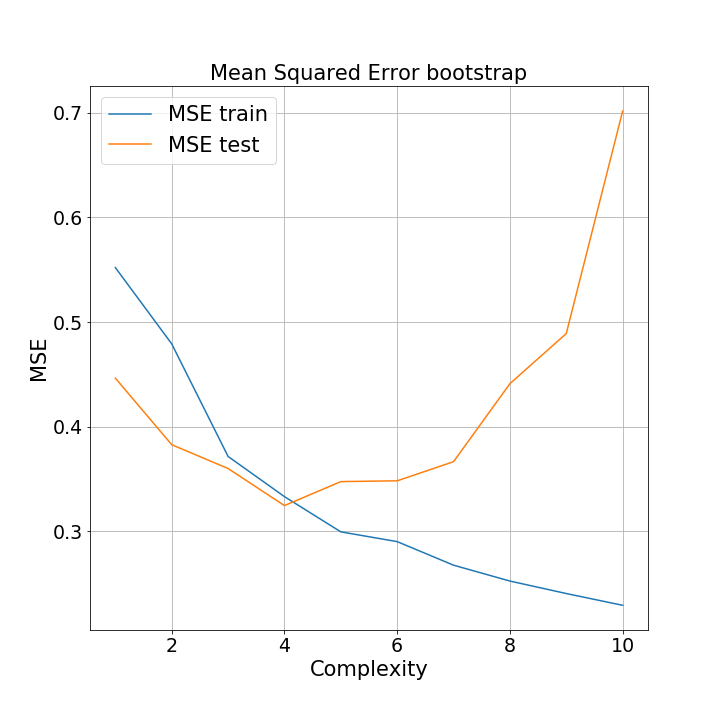
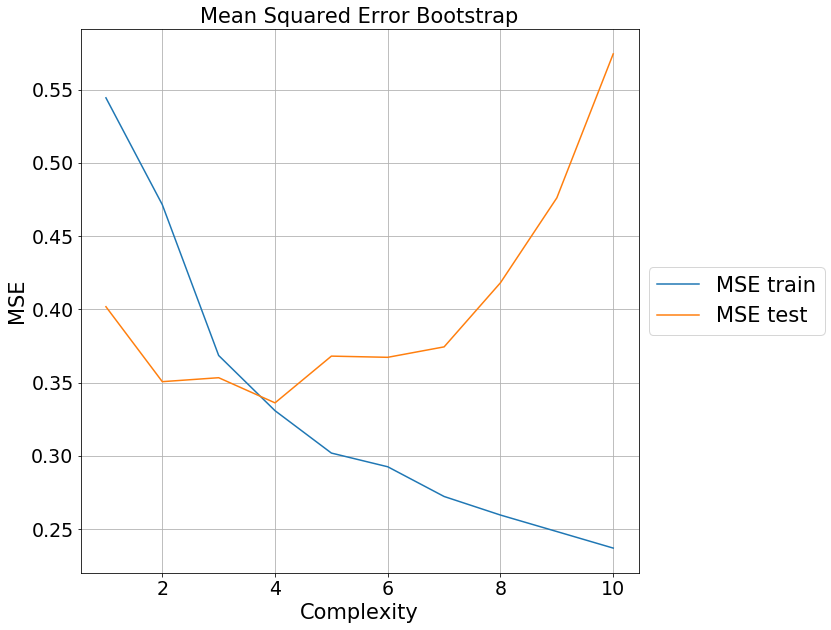
small changes in all files

diff --git a/Project1/ex6.py b/Project1/ex6.py
@@ -11,7 +11,7 @@ from functions import *
 np.random.seed(2405)
 
 terrain1 = imread('SRTM_data_Norway_1.tif')
-terrain1 = terrain1[0:200, 0:200]
+terrain1 = terrain1[:200, :200]
 x, y = np.meshgrid(range(terrain1.shape[1]), range(terrain1.shape[0]))
 max_y = np.max(y)
 x = x / max_y
@@ -25,10 +25,10 @@ tts = train_test_split(X, z_terrain, test_size = 0.01)
 print(f"OLS terrain: {evaluate_method(ols, tts, scale = True, d = complexity)}")
 
 
-print(x.shape)
-print(y.shape)
-print(terrain1)
-print(terrain1.shape)
+#print(x.shape)
+#print(y.shape)
+#print(terrain1)
+#print(terrain1.shape)
 
 
 
@@ -45,6 +45,7 @@ plt.show()
 
 fig, ax = plt.subplots(subplot_kw={"projection": "3d"})
 ax.plot_surface(x*max_y, y*max_y, terrain1)
+
 plt.show()
 
 """
@@ -64,8 +65,8 @@ plt.show()
 """
 #Ridge
 compl = [15,17,19,21,23,25]
-nlambda = 20s
-lambda_values = np.logspace(-9,-7,nlambda)
+nlambda = 10
+lambda_values = np.logspace(-9,-7.5,nlambda)
 mse_test_ridge = np.zeros((len(compl), len(lambda_values)))
 mse_train_ridge = np.zeros((len(compl), len(lambda_values)))
 r2_test_ridge = np.zeros((len(compl), len(lambda_values)))
@@ -75,14 +76,13 @@ for j in range(n_bs): #looping through bootstrap samples
     X_sample, z_sample = bootstrap(tts[0],tts[2])
     tts2 = [X_sample, tts[1], z_sample, tts[3]]
     for i in range(complex): #looping through complexity of model
-"""
 for i in range(len(compl)):
     for j in range(len(lambda_values)):
         mse_train_ridge[i,j], r2_train_ridge[i,j], mse_test_ridge[i,j], r2_test_ridge[i,j] = evaluate_method(ridge,
         tts, lmb = lambda_values[j], d=compl[i], scale = True)
+"""
 
-
-plot_mse(mse_train_ridge, mse_test_ridge, method_header = "ridge_terrain", lambdas = lambda_values, plot_complexity = True, complexities = compl)
+#plot_mse(mse_train_ridge, mse_test_ridge, method_header = "Ridge_Terrain", lambdas = lambda_values, plot_complexity = True, complexities = compl)
 """
 fig, ax = plt.subplots(subplot_kw={"projection": "3d"})
 _,_,_,_,beta_terrain = evaluate_method(ridge, tts, scale = True, d = complexity, lmb = lambda_values[] return_beta = True)
@@ -97,8 +97,25 @@ plt.xlabel('X')
 plt.ylabel('Y')
 plt.show()
 """
-"""
+
 #Lasso
+lambda_values = np.logspace(-6,-2,50)
+mse_test_lasso = np.zeros((len(compl), len(lambda_values)))
+mse_train_lasso = np.zeros((len(compl), len(lambda_values)))
+r2_test_lasso = np.zeros((len(compl), len(lambda_values)))
+r2_train_lasso = np.zeros((len(compl), len(lambda_values)))
+
+for i in range(len(compl)):
+    for j in range(len(lambda_values)):
+        mse_train_lasso[i,j], r2_train_lasso[i,j], mse_test_lasso[i,j], r2_test_lasso[i,j] = evaluate_method(lasso,
+        tts, lmb = lambda_values[j], d=compl[i], scale = False)
+
+
+plot_mse(mse_train_lasso, mse_test_lasso, method_header = 'Lasso_Terrain',
+    plot_complexity = True, lambdas = lambda_values, complexities = compl)
+
+
+"""
 fig, ax = plt.subplots(subplot_kw={"projection": "3d"})
 a,b,c,d,beta_terrain = evaluate_method(lasso, train_test_terrain, scale = True, d = complexity, return_beta = True)
 z_terrain = predict(X, beta_terrain).reshape(200,200)

diff --git a/Project1/ex2.py b/Project1/ex2.py
@@ -40,7 +40,7 @@ mean_mse_test = np.mean(mse_test, axis = 1)
 mean_r2_train = np.mean(r2_train, axis = 1)
 mean_r2_test = np.mean(r2_test, axis = 1)
 
-plot_mse(mean_mse_train, mean_mse_test, method_header = "bootstrap")
+plot_mse(mean_mse_train, mean_mse_test, method_header = "Bootstrap")
 
 
 #Bootstrap and plot MSE vs # datapoints
@@ -69,4 +69,4 @@ mean_mse_test_n = np.mean(mse_test_n, axis = 1)
 mean_r2_train_n = np.mean(r2_train_n, axis = 1)
 mean_r2_test_n = np.mean(r2_test_n, axis = 1)
 
-plot_mse(mean_mse_train_n, mean_mse_test_n, method_header = "bootstrap", plot_complexity = False, complexities = n_points)
+plot_mse(mean_mse_train_n, mean_mse_test_n, method_header = "Bootstrap", plot_complexity = False, complexities = n_points)

diff --git a/Project1/ex5.py b/Project1/ex5.py
@@ -21,7 +21,7 @@ z_noisy = FrankeFunction(x, y) + noise*0.2
 tts = train_test_split(X,z_noisy,test_size=0.2) #Train test split
 
 compl = [3,4,5,6,7,8,9,10]
-nlambda = 100
+nlambda = 20
 lambda_values = np.logspace(-5,-3,nlambda) #[0.001, 0.005, 0.01, 0.05, 0.1, 0.5, 0.75, 1]
 mse_test_lasso = np.zeros((len(compl), len(lambda_values)))
 mse_train_lasso = np.zeros((len(compl), len(lambda_values)))
@@ -37,5 +37,5 @@ for i in range(len(compl)):
         tts, lmb = lambda_values[j], d=compl[i], scale = False)
 
 
-plot_mse(mse_train_lasso, mse_test_lasso, method_header = 'lasso',
+plot_mse(mse_train_lasso, mse_test_lasso, method_header = 'Lasso',
     plot_complexity = True, lambdas = lambda_values, complexities = compl)

diff --git a/Project1/ex1.py b/Project1/ex1.py
@@ -44,7 +44,7 @@ labelsize=21
 ticksize = 19
 
 plt.errorbar(range(len(beta_l)), np.log(abs(beta_l)), np.log(beta_sd_l), linestyle='None', marker = 'o', ecolor = 'red')
-plt.title(r"The logarithmic absolute values to $\beta$ and the logarithmic standard deviation", fontsize=labelsize)
+plt.title(r"The logarithmic absolute values of $\beta$ and the logarithmic standard deviation", fontsize=labelsize)
 plt.xlabel(r"$\beta_i$", fontsize=labelsize)
 plt.ylabel(r"log(abs($\beta$))", fontsize=labelsize)
 plt.xticks(fontsize=ticksize)

diff --git a/Project1/functions.py b/Project1/functions.py
@@ -197,7 +197,8 @@ def plot_mse(mse_train, mse_test, method_header = '', plot_complexity = True, la
     plt.yticks(fontsize=ticksize)
     #plt.yticks(fonsize=ticksize)
     plt.ylabel("MSE", fontsize=labelsize)
-    plt.title(f"Mean Squared Error {method_header}", fontsize=labelsize)
+    title_header = (" ").join(method_header.split("_"))
+    plt.title(f"Mean Squared Error {title_header}", fontsize=labelsize)
     plt.grid()
     plt.savefig(f"MSE_{method_header}.png", bbox_inches='tight')
     plt.show()

diff --git a/Project1/ex4.py b/Project1/ex4.py
@@ -40,4 +40,4 @@ for i in range(len(compl)):
         tts, lmb = lambda_values[j], d=compl[i], scale = True)
 
 
-plot_mse(mse_train_ridge, mse_test_ridge, method_header = "ridge", lambdas = lambda_values, plot_complexity = True, complexities = compl)
+plot_mse(mse_train_ridge, mse_test_ridge, method_header = "Ridge", lambdas = lambda_values, plot_complexity = True, complexities = compl)

diff --git a/Project1/ex3.py b/Project1/ex3.py
@@ -29,4 +29,4 @@ r2_test_kfold = np.zeros((complex, len(k)))
 for i in range(len(k)):
     mse_train_kfold[:,i], r2_train_kfold[:,i], mse_test_kfold[:,i], r2_test_kfold[:,i] = kfold(X, z_noisy, k[i], complex)
 
-plot_mse(mse_train_kfold, mse_test_kfold, method_header = "kfold", complexities = k)
+plot_mse(mse_train_kfold, mse_test_kfold, method_header = "Kfold", complexities = k)
